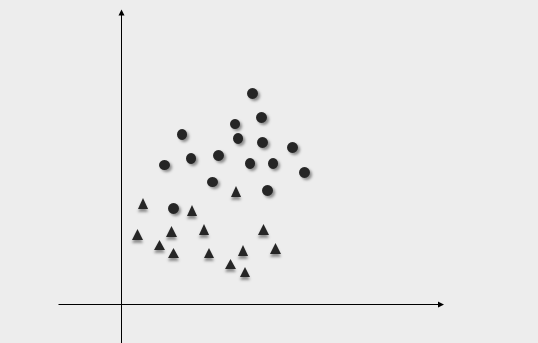
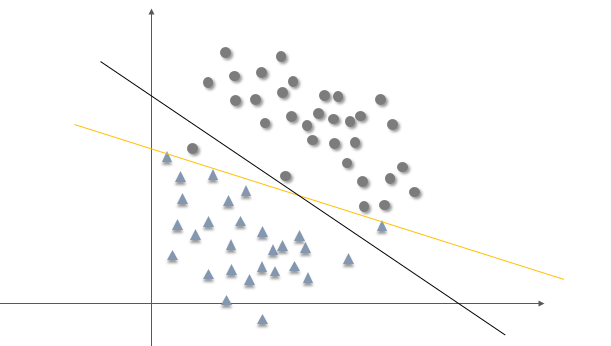
svm-equation

diff --git a/_posts/2017-07-31-svm-equation.md b/_posts/2017-07-31-svm-equation.md
@@ -149,6 +149,106 @@ $$
 \max_{\alpha_i \ge 0}\min_{\omega, b}  L(\omega, b, \alpha)
 $$
 
+一般来讲，原问题的解都会大于其对偶问题，但是在 KKT 条件下，两者将等取得相等的解。这个问题的 KKT 条件如下
+
+$$
+\begin{aligned}
+\frac{\partial L}{\partial \omega_i} = 0&, i = 1,,,d \quad(1)\\
+
+	\alpha_i g(x^{(i)}) = 0 &,i = 1,,,n \quad (2)\\
+	g(x^{(i)}) \leq 0&, i = 1,,,n \quad (3) \\
+	\alpha_i \geq 0&, i=1,,,n \quad (4)
+  \end{aligned}
+$$
+
+注意条件 (2)(3) ，如果 $$g(x^{(i)})  < 0$$ 严格成立，那么 $$\alpha_i$$ 必然等于 0。再结合下图
+
+![](../resources/2017-07-31-svm-equation/margin2.png)
+
+可以发现，对于大多数的特征点来讲，$$g(x^{(i)})$$ 都是小于 0 的，也就意味着这些点对应的 $$\alpha_i$$ 都等于 0，这是支持向量机的一个重要性质。
+
+在继续推导拉格朗日对偶问题的公式之前，我们先来考虑支持向量机的软件隔分类问题，简单的说就是，我们得到的特征可能会出现噪声，产生了少量异常点，导致严格的线性可分条件不存在 或者说，即便能够找到分隔面，但是总体来看并不理想，还不如放开一些异常点，让大多数点能正常分类。
+
+![](../resources/2017-07-31-svm-equation/soft_margin.png)
+（图中橙色的分隔面虽然能完全对样本进行分类，但是总体来看并不如黑色的分隔面效果好）
+
+为了获取这种能力，可以考虑对约束条件放宽限制，即
+
+$$
+y_i(\omega^T x^{(i)} + b) \ge 1 - \xi_i ,\quad i = 1,,,n, \quad\xi_i \ge 0
+$$
+
+也就是说，允许一些点距离分隔面小于 1，甚至越过分隔面。但不能无限制的放纵，而是相应地在优化目标函数上添加一个惩罚项，即得到
+
+$$
+\min_{\omega,\xi} \frac 1 2 \|\omega\|^2 + C\sum_{i=1}^n \xi_i
+\\
+s.t.\quad y_i(\omega^T x^{(i)} + b) \ge 1 - \xi_i ,\quad i = 1,,,n\\
+\quad\xi_i \ge 0,\quad i = 1,,,n
+$$
+
+相应的拉格朗日函数为
+
+$$
+L(\omega, b, \xi, \alpha, \beta) =  \frac 1 2 \|\omega\|^2 + C\sum_{i=1}^n \xi_i + \sum_{i=1}^n \alpha_i [-y_i(\omega^T x^{(i)} + b) + 1 - \xi_i]-\sum_{i=1}^n\beta_i \xi_i
+$$
+
+并且拉格朗日对偶问题可以修改为
+
+$$
+\max_{\alpha_i \ge 0,\beta_i\ge 0}\min_{\omega, b, \xi}  L(\omega, b,\xi, \alpha,\beta)
+$$
+
+先求解 $$L(\omega, b,\xi, \alpha,\beta)$$ 关于 $$\omega, b, \\xi$$ 的极值
+
+$$
+\nabla_\omega L = \omega - \sum_{i=1}^n \alpha_i y_i x^{(i)} = 0
+$$
+$$
+\frac{\partial L}{\partial b} = \sum_{i=1}^n \alpha_i y_i = 0
+$$
+$$
+\frac{\partial L}{\partial \xi_i} = C -\alpha_i -\beta_i = 0
+$$
+
+于是可以得到
+
+$$
+\omega = \sum_{i=1}^n \alpha_i y_i x^{(i)}\\
+\sum_{i=1}^n \alpha_i y_i = 0\\
+ C =\alpha_i +\beta_i
+$$
+
+然后设拉格朗日函数的极值为 $$W(\alpha)$$，则有
+
+$$
+\begin{aligned}
+W(\alpha) &= \frac 1 2 \sum_{i=1}^n \sum_{j=1}^n \alpha_i \alpha_j y_i y_j <x^{(i)}, x^{(j)}> +\sum_{i=1}^n (\alpha_i + \beta_i)\xi_i \\
+&-\sum_{i=1}^n \alpha_i y_i\sum_{j=1}^n \alpha_j y_j <x^{(i)}, x^{(j)}> + \sum_{i=1}^n \alpha_i -\sum_{i=1}^n \alpha_i \xi_i - \sum_{i=1}^n \beta_i \xi_i\\
+&=-\frac 1 2 \sum_{i=1}^n \sum_{j=1}^n \alpha_i \alpha_j y_i y_j <x^{(i)}, x^{(j)}> + \sum_{i=1}^n \alpha_i
+\end{aligned}
+$$
+
+可以看到虽然引入了软间隔分类模型，待优化目标函数却不含任何与软间隔参数相关的量，这也使得求解简单了许多。但是引入新的拉格朗日乘子 $$\beta$$ 也要满足 KKT 条件，即
+
+$$
+\beta_i \xi_i = 0
+$$
+
+将 $$\beta_i = C - \alpha_i$$ 代入得
+
+$$
+(C - \alpha_i)\xi_i=0
+$$
+
+也就是说当 $$\xi_i > 0$$ 时，$$\alpha_i=C$$，而当 $$\xi_i=0$$ 时，$$\alpha_i <C$$ 这是由于 $$\beta_i \ge 0$$ 恒成立。
+
+
+
+
+
+
+
 
 
 待续
